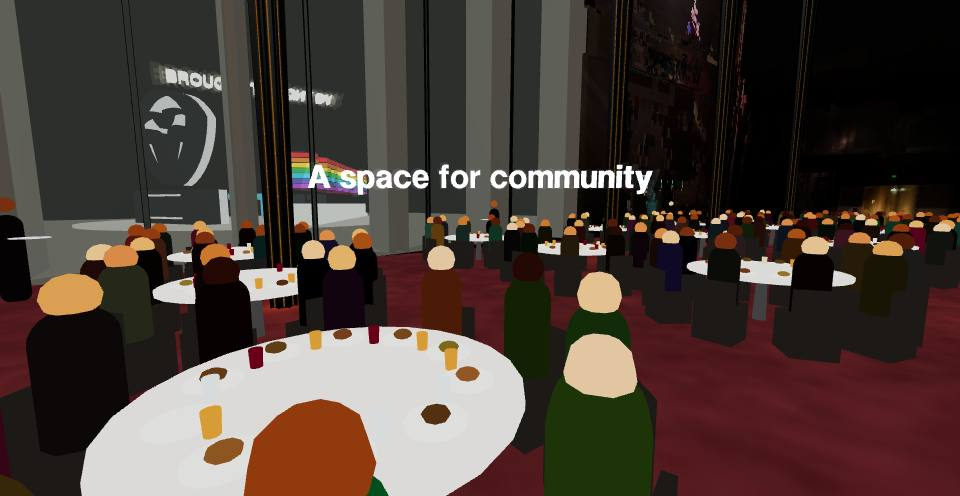
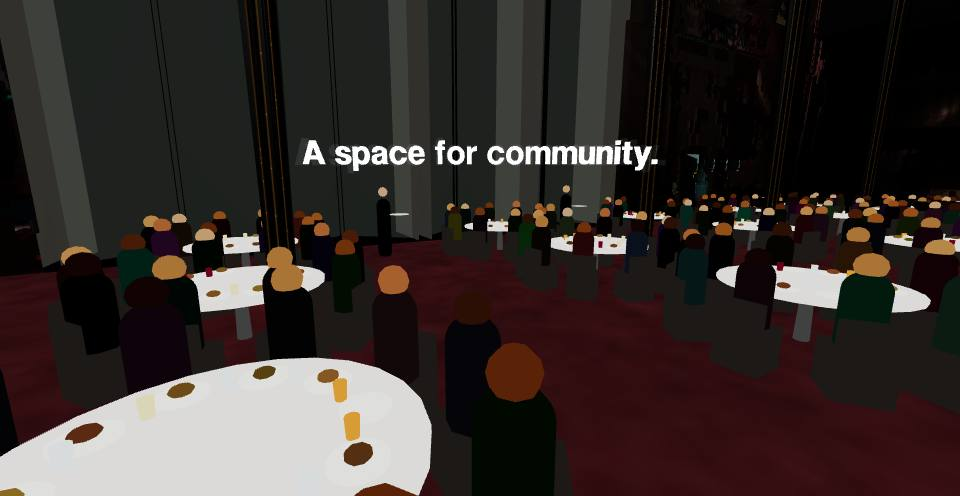
V3 notes (Lloyd): an event's house light comes up over 2.5 s, so the carpet's brightness eases from shot 1 into the dinner; shot 2 pans up over 5 s with a double ease, the courtyard hidden for the shot (plain glass, nothing outside) instead of frost; the tour's local court() helper had shadowed the 
Claude-Session: https://claude.ai/code/session_01QrhQ7vDknB7Zkn64ZjC69m

diff --git a/index.html b/index.html
@@ -3266,7 +3266,6 @@ function tourSegments(){ const uM=EVENT.wallLen/2, c=EVENT.cols;
  const hold=(u,h,d,lu,lh,ld)=>k=>{ const w=0.06*Math.sin(k*Math.PI*2); poseAt(EP(u+w*8,h,d),EP(lu,lh,ld)); };
  // the couple's timetable, mirrored from updateWedding: 20 s up the aisle, 6 s across to the glass
  const couple=tw=>{ if(tw<=20)return {u:uM,d:3.55+(tw/20)*9.9}; const q=Math.min(1,(tw-20)/6); return {u:uM+(27.6-uM)*q,d:13.45+2.2*q}; };
- const court=()=>turntable?turntable.position.clone():courtPoint(COURT.uMid,0,COURT.logoZ);
  // a shot's title lines, placed from the pose just set: ahead of the eye along its look
  const titlesNow=(s,spec)=>titleStep(s,eye,eye.clone().add(fwd()),spec);
  // the black veil, set straight (no transition): 0 clear, 1 black
@@ -3286,10 +3285,11 @@ function tourSegments(){ const uM=EVENT.wallLen/2, c=EVENT.cols;
   // dinner is revealed, "A space for community" floating over it
   {mode:null,     dur:16, cam:k=>{ const q=smooth(k), u=4+14.9*q, d=7.6-2.7*q, dk=smooth(Math.max(0,(k-0.8)/0.2)); const at=EP(u,1.7-0.8*dk,d), ahead=EP(u+18,1.5,d), down=EP(u+0.05,0.0,d);
     poseAt(at,ahead.clone().lerp(down,dk)); titleStep(k*16,at,ahead,[['A unique space',0,4.4],['Carefully crafted over decades',4.4,8.8],[['Is brought to','light'],8.8,13.2]]); }},
+  // (Lloyd, V3) the pan up takes 5 s with a double ease, and the courtyard is simply hidden for
+  // this shot: plain glass, nothing outside it
   {mode:'dinner', dur:16, cam:k=>{ const s=k*16, q=smooth(k); const at=EP(18.9+5.1*q,0.9+1.7*q,4.9+0.3*q), centre=EP(uM,1.0,9.5), down=EP(18.95,0.0,4.9);
-    poseAt(at,down.lerp(centre,smooth(Math.max(0,Math.min(1,(s-0.6)/2.5))))); titleStep(s,at,centre,[['A space for community.',3.4,9.0]]);
-    // the glazing frosted for this shot (Lloyd: so the sculptures outside cannot be seen)
-    frostTarget=1; }},
+    poseAt(at,down.lerp(centre,smooth(smooth(Math.max(0,Math.min(1,(s-0.6)/5)))))); titleStep(s,at,centre,[['A space for community.',5.5,11.0]]);
+    if(court)court.visible=false; }},
   {celebrate:true,dur:11, cam:hold(uM-7,2.1,13,uM+2,1.0,6)},
   // (Lloyd's notes) the party: from the floor at the hall's end, round the room on a long curve
   // and rising all the way, to end high up facing the crowd in the middle; never a blank wall
@@ -3312,14 +3312,19 @@ function tourSegments(){ const uM=EVENT.wallLen/2, c=EVENT.cols;
  ]; }
 function startTour(){ if(tour)return; idle=false; const segs=tourSegments(); tour={segs,i:-1,t0:0,noclip};
  document.getElementById('tourbtn').textContent='Stop tour'; document.getElementById('collide').checked=false; tourNext(performance.now()/1000); }
-function stopTour(){ boom=null; titlesOff(); frostTarget=0;
+function stopTour(){ boom=null; titlesOff(); frostTarget=0; if(houseRamp){ lit.house=houseRamp.to; houseRamp=null; } if(court)court.visible=document.getElementById('court').checked;
  { const f=document.getElementById('flash'); if(!finale&&+f.style.opacity>0&&f.style.background==='rgb(0, 0, 0)'){ requestAnimationFrame(()=>requestAnimationFrame(()=>{ f.style.transition='opacity 1.5s ease-in'; f.style.opacity=0; f.addEventListener('transitionend',()=>{ f.style.background='#fff'; },{once:true}); })); } }
  if(finale){ finaleEnd(); const f=document.getElementById('flash'); if(+f.style.opacity>0)requestAnimationFrame(()=>requestAnimationFrame(()=>{ f.style.transition='opacity 1.5s ease-in'; f.style.opacity=0; f.addEventListener('transitionend',()=>{ f.style.background='#fff'; },{once:true}); })); } if(approach){ noclip=approach.noclip; approach=null; } if(!tour)return; noclip=tour.noclip; document.getElementById('collide').checked=!noclip; tour=null; document.getElementById('tourbtn').textContent='Tour'; document.getElementById('celebratefab').hidden=!document.getElementById('event').checked; }
 function tourNext(now){ const T=tour; T.i++; if(T.i>=T.segs.length){ stopTour(); return; }
- const sg=T.segs[T.i]; T.t0=now; titlesOff(); frostTarget=0; if('mode' in sg)setEvent(sg.mode); if(sg.celebrate)fireCelebrate(); sg.cam(0);
+ const sg=T.segs[T.i]; T.t0=now; titlesOff(); frostTarget=0; if(court)court.visible=document.getElementById('court').checked;
+ // an event's house light comes up over 2.5 s rather than stepping (Lloyd: the carpet's brightness
+ // should transition smoothly into the next scene)
+ const h0=lit.house; if('mode' in sg)setEvent(sg.mode); if(lit.house!==h0){ houseRamp={from:h0,to:lit.house,t0:now,dur:2.5}; lit.house=h0; } if(sg.celebrate)fireCelebrate(); sg.cam(0);
  // no Celebrate button while the tour runs: the tour fires its own (Lloyd); stopTour puts it back
  document.getElementById('celebratefab').hidden=true; }
+let houseRamp=null;
 function tourStep(now){ const T=tour; if(!T)return; const sg=T.segs[T.i]; const k=(now-T.t0)/sg.dur;
+ if(houseRamp){ const q=Math.min(1,(now-houseRamp.t0)/houseRamp.dur); lit.house=houseRamp.from+(houseRamp.to-houseRamp.from)*smooth(q); if(q>=1)houseRamp=null; }
  if(k>=1){ sg.cam(1); if(SHOT){ playShot(); return; } tourNext(now); return; } sg.cam(k); sceneDirty=true; }
 document.getElementById('tourbtn').onclick=()=>{ if(tour)stopTour(); else startTour(); };
 // Before anyone touches anything the view is not a still: the camera drifts slowly up and down

diff --git a/tour-storyboard.md b/tour-storyboard.md
@@ -36,7 +36,10 @@ Have the camera move forwards down the hall and then before it gets to the end, 
 Notes:
 The text is glowing to much.
 Also make sure the text fits on the phone as well
-"llight" should shimmer smoothly
+"light" should shimmer smoothly
+
+V3.
+At the end, smoothly transition the brightness of the carpet into the next scene
 
 ---
 
@@ -44,7 +47,7 @@ Also make sure the text fits on the phone as well
 
 Duration 16 s. Event: `dinner` (tables set).
 
-Starts where shot 1 ended, `(18.9, 0.9, 4.9)` looking straight down at the carpet, with the dinner already set. Holds the carpet 0.6 s, pans up over 2.5 s to face the centre of the room `(uM, 1.0, 9.5)` so the dinner is revealed, then rises and pushes slowly in to `(24, 2.6, 5.0)`, facing the centre throughout. "A space for community." floats over the dinner from 3.4 s to 9 s. The glazing is frosted for this shot, so nothing outside shows.
+Starts where shot 1 ended, `(18.9, 0.9, 4.9)` looking straight down at the carpet, with the dinner already set. Holds the carpet 0.6 s, pans up slowly over 5 s (double ease) to face the centre of the room `(uM, 1.0, 9.5)` so the dinner is revealed, then rises and pushes slowly in to `(24, 2.6, 5.0)`, facing the centre throughout. "A space for community." floats over the dinner from 5.5 s to 11 s. The courtyard is hidden for this shot: plain glass, nothing outside. The house light comes up over 2.5 s at the start, so the carpet's brightness eases in from shot 1.
 
 | start | middle | end |
 |---|---|---|
@@ -59,6 +62,12 @@ V2.
 
 the glass walls should be fully frosted here so we can't see the logo sculptures outside
 
+V3.
+
+The frosted glass is too frosted. Maybe instead, we have normal glass, and no sculptures outside.
+
+At the starts the camera turns too fast. Smooth/ease that turn considerably or remove it.
+
 ---
 
 ## 3. Dinner celebrate
@@ -71,7 +80,9 @@ Hold at `(uM-7, 2.1, 13)`, by the glass, looking across the room at `(uM+2, 1.0,
 |---|---|---|
 | ![](storyboard/seg03a.jpg) | ![](storyboard/seg03b.jpg) | ![](storyboard/seg03c.jpg) |
 
-**Notes:**
+**Notes:** Add a new event type - Banquet.
+
+Which is a long rectangular table going down the spine of the hall long ways. Have the camera fade in, for a shot of the camera moving down the banquet table. The banquet table should have food, flowers on it and people sitting at it. Also with ornate draped tablecloth. Fade out at the end of the shot
 
 ---
 
@@ -93,6 +104,10 @@ Camera path, do not finish facing a blank wall. It would be better if it panned 
 V2.
 
 Fade out at the end
+
+V3.
+
+Fade in at the start of the shot.
 
 ---
 
